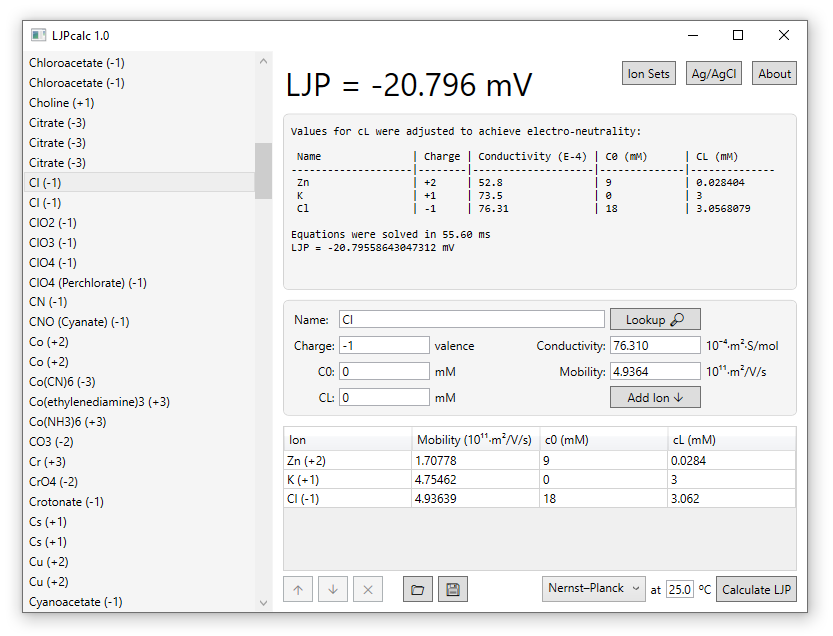
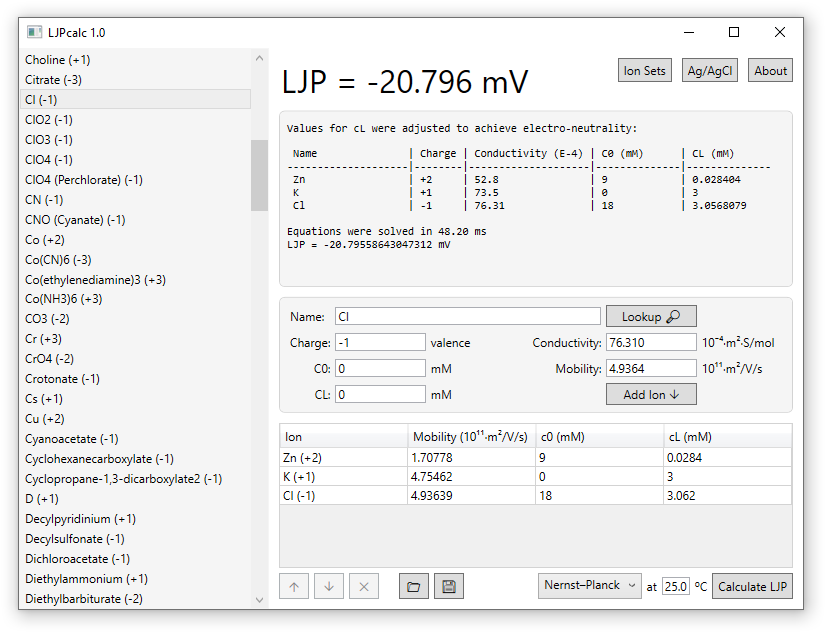
ignore duplicates when loading ion table

diff --git a/src/LJPmath/IonSet.cs b/src/LJPmath/IonSet.cs
@@ -83,14 +83,19 @@ namespace LJPmath
             System.IO.File.WriteAllText(filePath, GetTableString(prefix: true));
         }
 
-        public void Load(string filePath, bool sort = false)
+        public void Load(string filePath, bool ignoreDuplicates = false, bool sort = false)
         {
             ions.Clear();
             foreach (string line in System.IO.File.ReadAllLines(filePath))
             {
                 Ion ion = IonFromMarkdownLine(line);
                 if (ion != null)
+                {
+                    if (ignoreDuplicates && Contains(ion.name))
+                        continue;
+
                     ions.Add(ion);
+                }
             }
 
             if (sort)

diff --git a/src/LJPmath/IonTable.cs b/src/LJPmath/IonTable.cs
@@ -24,7 +24,7 @@ namespace LJPmath
                     throw new ArgumentException("ion table file does not exist");
             }
 
-            Load(filePath, sort: true);
+            Load(filePath, ignoreDuplicates: true, sort: true);
             Debug.WriteLine($"Loaded {ions.Count} ions from {filePath}");
         }
 
